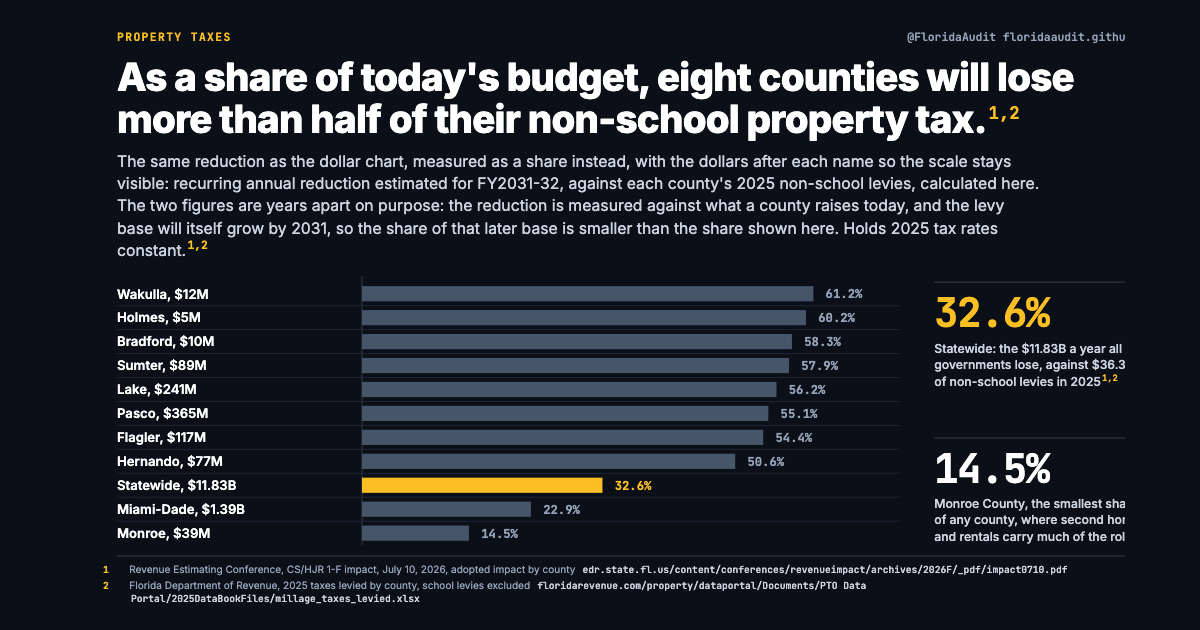
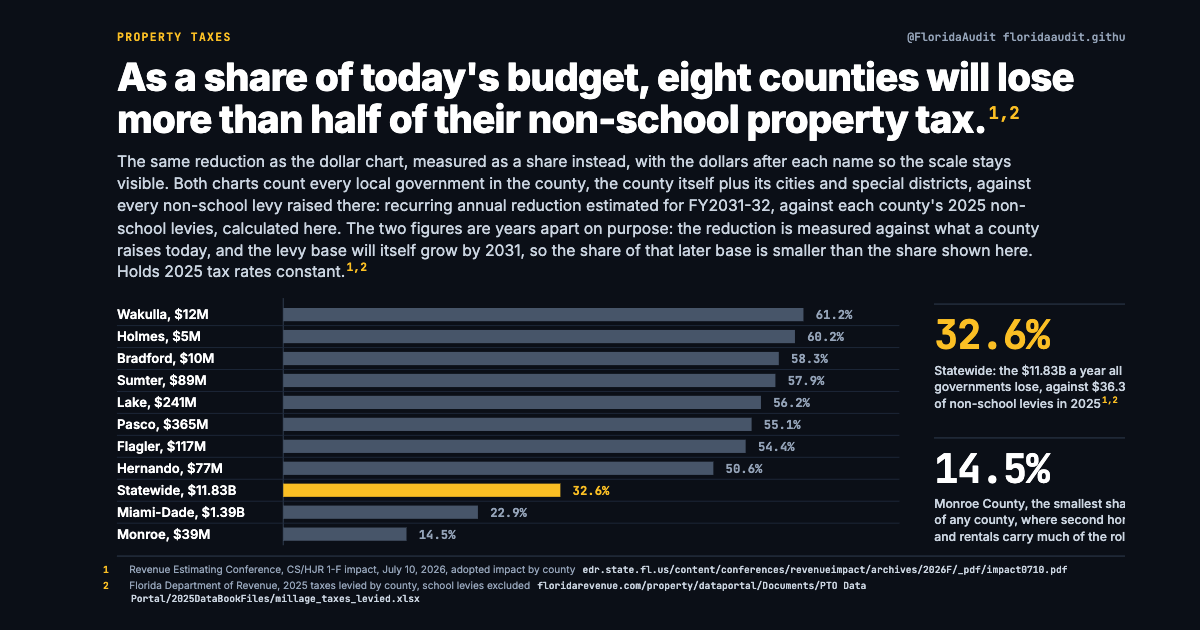
Property Taxes charts rebuilt

Changed region(s): [[0.0925, 0.2714, 0.8633, 0.8746], [0.7708, 0.4524, 0.9558, 0.6635]]

diff --git a/c/property-taxes/impact-by-county.html b/c/property-taxes/impact-by-county.html
@@ -4,24 +4,24 @@
   <meta charset="utf-8">
   <meta name="viewport" content="width=device-width, initial-scale=1">
   <title>As a share of today's budget, eight counties will lose more than half of their non-school property tax. · Florida Audit Project</title>
-  <meta name="description" content="Property Taxes: The same reduction as the dollar chart, measured as a share instead, with the dollars after each name so the scale stays visible: recurring...">
+  <meta name="description" content="Property Taxes: The same reduction as the dollar chart, measured as a share instead, with the dollars after each name so the scale stays visible.">
   <link rel="canonical" href="https://floridaaudit.github.io/c/property-taxes/impact-by-county.html">
   <meta name="robots" content="index, follow, max-image-preview:large">
   <meta property="og:type" content="article">
   <meta property="og:site_name" content="Florida Audit Project">
   <meta property="og:title" content="As a share of today's budget, eight counties will lose more than half of their non-school property tax.">
-  <meta property="og:description" content="Property Taxes: The same reduction as the dollar chart, measured as a share instead, with the dollars after each name so the scale stays visible: recurring...">
+  <meta property="og:description" content="Property Taxes: The same reduction as the dollar chart, measured as a share instead, with the dollars after each name so the scale stays visible.">
   <meta property="og:url" content="https://floridaaudit.github.io/c/property-taxes/impact-by-county.html">
   <meta property="og:image" content="https://floridaaudit.github.io/charts/property-taxes/impact-by-county-card.png">
   <meta property="og:image:width" content="1200">
   <meta property="og:image:height" content="630">
-  <meta property="og:image:alt" content="As a share of today's budget, eight counties will lose more than half of their non-school property tax. The same reduction as the dollar chart, measured as a share instead, with the dollars after each name so the scale stays visible: recurring annual reduction estimated for FY2031-32, against each county's 2025 non-school levies, calculated here. The two figures are years apart on purpose: the reduction is measured against what a county raises today, and the levy base will itself grow by 2031, so the share of that later base is smaller than the share shown here. Holds 2025 tax rates constant.">
+  <meta property="og:image:alt" content="As a share of today's budget, eight counties will lose more than half of their non-school property tax. The same reduction as the dollar chart, measured as a share instead, with the dollars after each name so the scale stays visible. Both charts count every local government in the county, the county itself plus its cities and special districts, against every non-school levy raised there: recurring annual reduction estimated for FY2031-32, against each county's 2025 non-school levies, calculated here. The two figures are years apart on purpose: the reduction is measured against what a county raises today, and the levy base will itself grow by 2031, so the share of that later base is smaller than the share shown here. Holds 2025 tax rates constant.">
   <meta name="twitter:card" content="summary_large_image">
   <meta name="twitter:site" content="@FloridaAudit">
   <meta name="twitter:title" content="As a share of today's budget, eight counties will lose more than half of their non-school property tax.">
-  <meta name="twitter:description" content="Property Taxes: The same reduction as the dollar chart, measured as a share instead, with the dollars after each name so the scale stays visible: recurring...">
+  <meta name="twitter:description" content="Property Taxes: The same reduction as the dollar chart, measured as a share instead, with the dollars after each name so the scale stays visible.">
   <meta name="twitter:image" content="https://floridaaudit.github.io/charts/property-taxes/impact-by-county-card.png">
-  <meta name="twitter:image:alt" content="As a share of today's budget, eight counties will lose more than half of their non-school property tax. The same reduction as the dollar chart, measured as a share instead, with the dollars after each name so the scale stays visible: recurring annual reduction estimated for FY2031-32, against each county's 2025 non-school levies, calculated here. The two figures are years apart on purpose: the reduction is measured against what a county raises today, and the levy base will itself grow by 2031, so the share of that later base is smaller than the share shown here. Holds 2025 tax rates constant.">
+  <meta name="twitter:image:alt" content="As a share of today's budget, eight counties will lose more than half of their non-school property tax. The same reduction as the dollar chart, measured as a share instead, with the dollars after each name so the scale stays visible. Both charts count every local government in the county, the county itself plus its cities and special districts, against every non-school levy raised there: recurring annual reduction estimated for FY2031-32, against each county's 2025 non-school levies, calculated here. The two figures are years apart on purpose: the reduction is measured against what a county raises today, and the levy base will itself grow by 2031, so the share of that later base is smaller than the share shown here. Holds 2025 tax rates constant.">
   <link rel="icon" href="/assets/favicon.png" type="image/png">
   <link rel="stylesheet" href="/assets/site.css">
   <script type="application/ld+json">
@@ -29,7 +29,7 @@
   "@context": "https://schema.org",
   "@type": "Dataset",
   "name": "As a share of today's budget, eight counties will lose more than half of their non-school property tax.",
-  "description": "Property Taxes: The same reduction as the dollar chart, measured as a share instead, with the dollars after each name so the scale stays visible: recurring...",
+  "description": "Property Taxes: The same reduction as the dollar chart, measured as a share instead, with the dollars after each name so the scale stays visible.",
   "url": "https://floridaaudit.github.io/c/property-taxes/impact-by-county.html",
   "license": "https://creativecommons.org/publicdomain/zero/1.0/",
   "isAccessibleForFree": true,
@@ -69,9 +69,9 @@
   <article>
     <p class="kicker">Property Taxes</p>
     <h1>As a share of today's budget, eight counties will lose more than half of their non-school property tax.</h1>
-    <p class="sub">The same reduction as the dollar chart, measured as a share instead, with the dollars after each name so the scale stays visible: recurring annual reduction estimated for FY2031-32, against each county's 2025 non-school levies, calculated here. The two figures are years apart on purpose: the reduction is measured against what a county raises today, and the levy base will itself grow by 2031, so the share of that later base is smaller than the share shown here. Holds 2025 tax rates constant.</p>
+    <p class="sub">The same reduction as the dollar chart, measured as a share instead, with the dollars after each name so the scale stays visible. Both charts count every local government in the county, the county itself plus its cities and special districts, against every non-school levy raised there: recurring annual reduction estimated for FY2031-32, against each county's 2025 non-school levies, calculated here. The two figures are years apart on purpose: the reduction is measured against what a county raises today, and the levy base will itself grow by 2031, so the share of that later base is smaller than the share shown here. Holds 2025 tax rates constant.</p>
     <figure>
-      <img src="/charts/property-taxes/impact-by-county.webp" width="1280" height="720" alt="As a share of today's budget, eight counties will lose more than half of their non-school property tax. The same reduction as the dollar chart, measured as a share instead, with the dollars after each name so the scale stays visible: recurring annual reduction estimated for FY2031-32, against each county's 2025 non-school levies, calculated here. The two figures are years apart on purpose: the reduction is measured against what a county raises today, and the levy base will itself grow by 2031, so the share of that later base is smaller than the share shown here. Holds 2025 tax rates constant.">
+      <img src="/charts/property-taxes/impact-by-county.webp" width="1280" height="720" alt="As a share of today's budget, eight counties will lose more than half of their non-school property tax. The same reduction as the dollar chart, measured as a share instead, with the dollars after each name so the scale stays visible. Both charts count every local government in the county, the county itself plus its cities and special districts, against every non-school levy raised there: recurring annual reduction estimated for FY2031-32, against each county's 2025 non-school levies, calculated here. The two figures are years apart on purpose: the reduction is measured against what a county raises today, and the levy base will itself grow by 2031, so the share of that later base is smaller than the share shown here. Holds 2025 tax rates constant.">
       <figcaption>Full size: <a href="/charts/property-taxes/impact-by-county.png">PNG, 2560 by 1440</a></figcaption>
     </figure>
     <p class="download"><a href="/data/property-taxes/county-reduction-share.csv">Download the data behind this chart (county-reduction-share.csv)</a></p>

diff --git a/c/property-taxes/non-homestead-assessment-cap.html b/c/property-taxes/non-homestead-assessment-cap.html
@@ -3,32 +3,32 @@
 <head>
   <meta charset="utf-8">
   <meta name="viewport" content="width=device-width, initial-scale=1">
-  <title>The yearly assessment cap on rental and commercial property would fall from 10% to 5%. · Florida Audit Project</title>
+  <title>Separately, the yearly assessment cap on rental and commercial property would fall from 10% to 5%. · Florida Audit Project</title>
   <meta name="description" content="Property Taxes: Maximum annual growth in taxable assessed value for non-homestead, non-agricultural parcels, non-school levies; the current 10% cap has been...">
   <link rel="canonical" href="https://floridaaudit.github.io/c/property-taxes/non-homestead-assessment-cap.html">
   <meta name="robots" content="index, follow, max-image-preview:large">
   <meta property="og:type" content="article">
   <meta property="og:site_name" content="Florida Audit Project">
-  <meta property="og:title" content="The yearly assessment cap on rental and commercial property would fall from 10% to 5%.">
+  <meta property="og:title" content="Separately, the yearly assessment cap on rental and commercial property would fall from 10% to 5%.">
   <meta property="og:description" content="Property Taxes: Maximum annual growth in taxable assessed value for non-homestead, non-agricultural parcels, non-school levies; the current 10% cap has been...">
   <meta property="og:url" content="https://floridaaudit.github.io/c/property-taxes/non-homestead-assessment-cap.html">
   <meta property="og:image" content="https://floridaaudit.github.io/charts/property-taxes/non-homestead-assessment-cap-card.png">
   <meta property="og:image:width" content="1200">
   <meta property="og:image:height" content="630">
-  <meta property="og:image:alt" content="The yearly assessment cap on rental and commercial property would fall from 10% to 5%. Maximum annual growth in taxable assessed value for non-homestead, non-agricultural parcels, non-school levies; the current 10% cap has been in place since 2008. The cap limits the value the tax is computed on, not the market price, not the rent, and not the millage rate. The lines are an illustration calculated here, not a forecast: one parcel assessed at $1,000,000 in 2026 whose market value then rises 12% a year, the condition under which a cap binds at all.">
+  <meta property="og:image:alt" content="Separately, the yearly assessment cap on rental and commercial property would fall from 10% to 5%. Maximum annual growth in taxable assessed value for non-homestead, non-agricultural parcels, non-school levies; the current 10% cap has been in place since 2008. The cap limits the value the tax is computed on, not the market price, not the rent, and not the millage rate. The lines are an illustration calculated here, not a forecast: one parcel assessed at $1,000,000 in 2026 whose market value then rises 12% a year, the condition under which a cap binds at all.">
   <meta name="twitter:card" content="summary_large_image">
   <meta name="twitter:site" content="@FloridaAudit">
-  <meta name="twitter:title" content="The yearly assessment cap on rental and commercial property would fall from 10% to 5%.">
+  <meta name="twitter:title" content="Separately, the yearly assessment cap on rental and commercial property would fall from 10% to 5%.">
   <meta name="twitter:description" content="Property Taxes: Maximum annual growth in taxable assessed value for non-homestead, non-agricultural parcels, non-school levies; the current 10% cap has been...">
   <meta name="twitter:image" content="https://floridaaudit.github.io/charts/property-taxes/non-homestead-assessment-cap-card.png">
-  <meta name="twitter:image:alt" content="The yearly assessment cap on rental and commercial property would fall from 10% to 5%. Maximum annual growth in taxable assessed value for non-homestead, non-agricultural parcels, non-school levies; the current 10% cap has been in place since 2008. The cap limits the value the tax is computed on, not the market price, not the rent, and not the millage rate. The lines are an illustration calculated here, not a forecast: one parcel assessed at $1,000,000 in 2026 whose market value then rises 12% a year, the condition under which a cap binds at all.">
+  <meta name="twitter:image:alt" content="Separately, the yearly assessment cap on rental and commercial property would fall from 10% to 5%. Maximum annual growth in taxable assessed value for non-homestead, non-agricultural parcels, non-school levies; the current 10% cap has been in place since 2008. The cap limits the value the tax is computed on, not the market price, not the rent, and not the millage rate. The lines are an illustration calculated here, not a forecast: one parcel assessed at $1,000,000 in 2026 whose market value then rises 12% a year, the condition under which a cap binds at all.">
   <link rel="icon" href="/assets/favicon.png" type="image/png">
   <link rel="stylesheet" href="/assets/site.css">
   <script type="application/ld+json">
 {
   "@context": "https://schema.org",
   "@type": "Dataset",
-  "name": "The yearly assessment cap on rental and commercial property would fall from 10% to 5%.",
+  "name": "Separately, the yearly assessment cap on rental and commercial property would fall from 10% to 5%.",
   "description": "Property Taxes: Maximum annual growth in taxable assessed value for non-homestead, non-agricultural parcels, non-school levies; the current 10% cap has been...",
   "url": "https://floridaaudit.github.io/c/property-taxes/non-homestead-assessment-cap.html",
   "license": "https://creativecommons.org/publicdomain/zero/1.0/",
@@ -69,10 +69,10 @@
 <main>
   <article>
     <p class="kicker">Property Taxes</p>
-    <h1>The yearly assessment cap on rental and commercial property would fall from 10% to 5%.</h1>
+    <h1>Separately, the yearly assessment cap on rental and commercial property would fall from 10% to 5%.</h1>
     <p class="sub">Maximum annual growth in taxable assessed value for non-homestead, non-agricultural parcels, non-school levies; the current 10% cap has been in place since 2008. The cap limits the value the tax is computed on, not the market price, not the rent, and not the millage rate. The lines are an illustration calculated here, not a forecast: one parcel assessed at $1,000,000 in 2026 whose market value then rises 12% a year, the condition under which a cap binds at all.</p>
     <figure>
-      <img src="/charts/property-taxes/non-homestead-assessment-cap.webp" width="1280" height="720" alt="The yearly assessment cap on rental and commercial property would fall from 10% to 5%. Maximum annual growth in taxable assessed value for non-homestead, non-agricultural parcels, non-school levies; the current 10% cap has been in place since 2008. The cap limits the value the tax is computed on, not the market price, not the rent, and not the millage rate. The lines are an illustration calculated here, not a forecast: one parcel assessed at $1,000,000 in 2026 whose market value then rises 12% a year, the condition under which a cap binds at all.">
+      <img src="/charts/property-taxes/non-homestead-assessment-cap.webp" width="1280" height="720" alt="Separately, the yearly assessment cap on rental and commercial property would fall from 10% to 5%. Maximum annual growth in taxable assessed value for non-homestead, non-agricultural parcels, non-school levies; the current 10% cap has been in place since 2008. The cap limits the value the tax is computed on, not the market price, not the rent, and not the millage rate. The lines are an illustration calculated here, not a forecast: one parcel assessed at $1,000,000 in 2026 whose market value then rises 12% a year, the condition under which a cap binds at all.">
       <figcaption>Full size: <a href="/charts/property-taxes/non-homestead-assessment-cap.png">PNG, 2560 by 1440</a></figcaption>
     </figure>
     <p class="download"><a href="/data/property-taxes/assessment-cap-illustration.csv">Download the data behind this chart (assessment-cap-illustration.csv)</a></p>

diff --git a/c/property-taxes/index.html b/c/property-taxes/index.html
@@ -34,9 +34,9 @@
       <li><a href="/c/property-taxes/local-revenue-impact.html"><img src="/charts/property-taxes/local-revenue-impact.webp" width="1280" height="720" alt="Amendment 3 would reduce local non-school property tax revenue by an estimated $11.83 billion a year by 2031. Estimated reduction in local non-school property tax revenue by the government that levies it. On the November 3, 2026 ballot; needs 60% to pass. Ten counties carry $7.54B of it, led by Miami-Dade $1.39B and Broward $1.19B, with all 67 in the CSV. It keeps growing after the exemption stops stepping up in 2028, because the conference counts the sixth year as the recurring impact and the lower assessment cap compounds. Holds 2025 tax rates constant. Nominal dollars." loading="lazy"><span>Amendment 3 would reduce local non-school property tax revenue by an estimated $11.83 billion a year by 2031.</span></a></li>
       <li><a href="/c/property-taxes/permitted-uses.html"><img src="/charts/property-taxes/permitted-uses.webp" width="1280" height="720" alt="Amendment 3 lists seven permitted uses for county and city property taxes. Text of the proposed Article VII, Section 9(a)(2). School district and special district levies are not covered by this list." loading="lazy"><span>Amendment 3 lists seven permitted uses for county and city property taxes.</span></a></li>
       <li><a href="/c/property-taxes/the-legislative-vote.html"><img src="/charts/property-taxes/the-legislative-vote.webp" width="1280" height="720" alt="Amendment 3 is on the ballot because the Legislature put it there: 75-26 in the House, 30-9 in the Senate. Votes on June 2, 2026 on CS/HJR 1-F. A joint resolution does not go to the governor." loading="lazy"><span>Amendment 3 is on the ballot because the Legislature put it there: 75-26 in the House, 30-9 in the Senate.</span></a></li>
-      <li><a href="/c/property-taxes/impact-by-county.html"><img src="/charts/property-taxes/impact-by-county.webp" width="1280" height="720" alt="As a share of today's budget, eight counties will lose more than half of their non-school property tax. The same reduction as the dollar chart, measured as a share instead, with the dollars after each name so the scale stays visible: recurring annual reduction estimated for FY2031-32, against each county's 2025 non-school levies, calculated here. The two figures are years apart on purpose: the reduction is measured against what a county raises today, and the levy base will itself grow by 2031, so the share of that later base is smaller than the share shown here. Holds 2025 tax rates constant." loading="lazy"><span>As a share of today's budget, eight counties will lose more than half of their non-school property tax.</span></a></li>
+      <li><a href="/c/property-taxes/impact-by-county.html"><img src="/charts/property-taxes/impact-by-county.webp" width="1280" height="720" alt="As a share of today's budget, eight counties will lose more than half of their non-school property tax. The same reduction as the dollar chart, measured as a share instead, with the dollars after each name so the scale stays visible. Both charts count every local government in the county, the county itself plus its cities and special districts, against every non-school levy raised there: recurring annual reduction estimated for FY2031-32, against each county's 2025 non-school levies, calculated here. The two figures are years apart on purpose: the reduction is measured against what a county raises today, and the levy base will itself grow by 2031, so the share of that later base is smaller than the share shown here. Holds 2025 tax rates constant." loading="lazy"><span>As a share of today's budget, eight counties will lose more than half of their non-school property tax.</span></a></li>
       <li><a href="/c/property-taxes/impact-by-county-dollars.html"><img src="/charts/property-taxes/impact-by-county-dollars.webp" width="1280" height="720" alt="Ten counties carry $7.54 billion of the $11.83 billion, and two thirds of it comes off county government. Recurring annual reduction in local non-school property tax revenue once the exemption is fully phased in, for the ten largest of Florida's 67 counties, split between the county government and the cities and special districts inside it. Duval has no county-government bar: Jacksonville and Duval County are one consolidated government, which the table files as a municipality, so its whole reduction sits in the purple bar. All 67 counties are in the CSV behind this chart. Holds 2025 tax rates constant. Nominal dollars." loading="lazy"><span>Ten counties carry $7.54 billion of the $11.83 billion, and two thirds of it comes off county government.</span></a></li>
-      <li><a href="/c/property-taxes/non-homestead-assessment-cap.html"><img src="/charts/property-taxes/non-homestead-assessment-cap.webp" width="1280" height="720" alt="The yearly assessment cap on rental and commercial property would fall from 10% to 5%. Maximum annual growth in taxable assessed value for non-homestead, non-agricultural parcels, non-school levies; the current 10% cap has been in place since 2008. The cap limits the value the tax is computed on, not the market price, not the rent, and not the millage rate. The lines are an illustration calculated here, not a forecast: one parcel assessed at $1,000,000 in 2026 whose market value then rises 12% a year, the condition under which a cap binds at all." loading="lazy"><span>The yearly assessment cap on rental and commercial property would fall from 10% to 5%.</span></a></li>
+      <li><a href="/c/property-taxes/non-homestead-assessment-cap.html"><img src="/charts/property-taxes/non-homestead-assessment-cap.webp" width="1280" height="720" alt="Separately, the yearly assessment cap on rental and commercial property would fall from 10% to 5%. Maximum annual growth in taxable assessed value for non-homestead, non-agricultural parcels, non-school levies; the current 10% cap has been in place since 2008. The cap limits the value the tax is computed on, not the market price, not the rent, and not the millage rate. The lines are an illustration calculated here, not a forecast: one parcel assessed at $1,000,000 in 2026 whose market value then rises 12% a year, the condition under which a cap binds at all." loading="lazy"><span>Separately, the yearly assessment cap on rental and commercial property would fall from 10% to 5%.</span></a></li>
     </ul>
   </article></main>
 <footer><a href="/">All charts</a> · <a href="/methods.html">Methods</a> · <a href="/corrections.html">Corrections</a></footer>

diff --git a/c/property-taxes/homestead-exemption-amounts.html b/c/property-taxes/homestead-exemption-amounts.html
@@ -60,7 +60,7 @@
     "Florida Legislature, enrolled CS/HJR 1-F (2026)",
     "Pinellas County Property Appraiser, Amendment 3 FAQ and savings illustration",
     "Florida Department of State, 2026 Amendment 3 ballot entry",
-    "Florida Department of Revenue, 2025 millage and taxes levied, and taxable value"
+    "Florida Department of Revenue, 2025 taxes levied by county"
   ]
 }
   </script>
@@ -83,7 +83,7 @@
         <li>Florida Legislature, enrolled CS/HJR 1-F (2026) <a href="https://www.flsenate.gov/Session/Bill/2026F/1F/BillText/er/PDF">www.flsenate.gov/Session/Bill/2026F/1F/BillText/er/PDF</a></li>
         <li>Pinellas County Property Appraiser, Amendment 3 FAQ and savings illustration <a href="https://www.pcpao.gov/amendment3">www.pcpao.gov/amendment3</a></li>
         <li>Florida Department of State, 2026 Amendment 3 ballot entry <a href="https://constitutionalinitiatives.dos.fl.gov/Home/InitDetail?account=10&amp;seqnum=110">constitutionalinitiatives.dos.fl.gov/Home/InitDetail?account=10&amp;seqnum=110</a></li>
-        <li>Florida Department of Revenue, 2025 millage and taxes levied, and taxable value <a href="https://floridarevenue.com/property/dataportal/Documents/PTO%20Data%20Portal/Databook%20Historical%20Data/2025DataBookFiles/millage_taxes_levied.xlsx">floridarevenue.com/property/dataportal/Documents/PTO%20Data%20Portal/Databook%20Historical</a></li>
+        <li>Florida Department of Revenue, 2025 taxes levied by county <a href="https://floridarevenue.com/property/dataportal/Documents/PTO%20Data%20Portal/Databook%20Historical%20Data/2025DataBookFiles/millage_taxes_levied.xlsx">floridarevenue.com/property/dataportal/Documents/PTO%20Data%20Portal/Databook%20Historical</a></li>
       </ol>
     </section>
     <p class="meta">Published 2026-09-29. Released into the public domain under <a href="https://creativecommons.org/publicdomain/zero/1.0/">CC0</a>. No attribution required.</p>

diff --git a/index.html b/index.html
@@ -39,7 +39,7 @@
       <li><a href="/c/property-taxes/the-legislative-vote.html">Amendment 3 is on the ballot because the Legislature put it there: 75-26 in the House, 30-9 in the Senate.</a></li>
       <li><a href="/c/property-taxes/impact-by-county.html">As a share of today's budget, eight counties will lose more than half of their non-school property tax.</a></li>
       <li><a href="/c/property-taxes/impact-by-county-dollars.html">Ten counties carry $7.54 billion of the $11.83 billion, and two thirds of it comes off county government.</a></li>
-      <li><a href="/c/property-taxes/non-homestead-assessment-cap.html">The yearly assessment cap on rental and commercial property would fall from 10% to 5%.</a></li>
+      <li><a href="/c/property-taxes/non-homestead-assessment-cap.html">Separately, the yearly assessment cap on rental and commercial property would fall from 10% to 5%.</a></li>
     </ul>
   </section></main>
 <footer><a href="/">All charts</a> · <a href="/methods.html">Methods</a> · <a href="/corrections.html">Corrections</a></footer>
